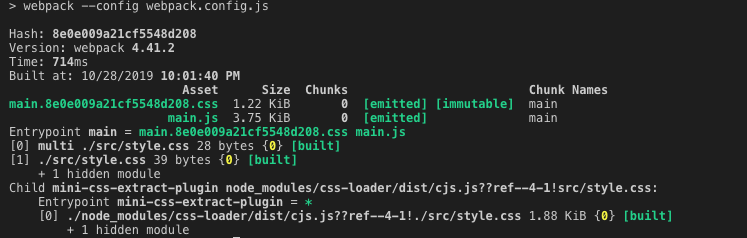
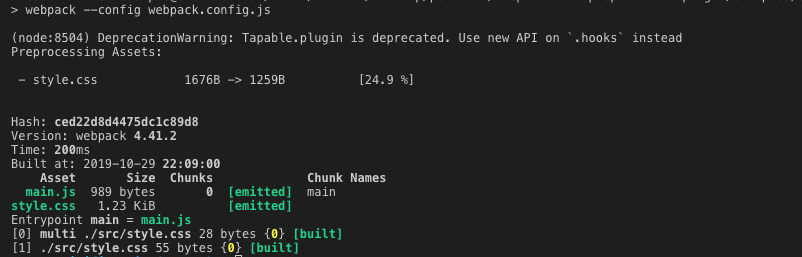
Implemented Review Suggestions

Changed region(s): [[0.0, 0.1176, 0.8929, 1.0], [0.0, 0.0, 0.3695, 0.0588], [0.4311, 0.2941, 0.5234, 0.3235]]

diff --git a/examples/css-minifier/webpack.config.js b/examples/css-minifier/webpack.config.js
@@ -1,45 +1,31 @@
-const path = require('path');
-const MiniCssExtractPlugin = require('mini-css-extract-plugin');
-const OptimizeCSSAssetsPlugin = require('optimize-css-assets-webpack-plugin');
+const WebpackFilePreprocessorPlugin = require('webpack-file-preprocessor-plugin');
+const crass = require('crass').parse;
 
 module.exports = {
   mode: 'production',
   entry: ['./src/style.css'],
-  optimization: {
-    minimizer: [new OptimizeCSSAssetsPlugin({
-      assetNameRegExp: /\.css$/,
-      cssProcessor: require('cssnano'),
-      cssProcessorPluginOptions: {
-        preset: ['default', { discardComments: { removeAll: true } }],
-      },
-      canPrint: true
-    })],
-  },
-  plugins: [
-    new MiniCssExtractPlugin({
-      filename: '[name].[hash].css',
-      chunkFilename: '[id].[hash].css',
-    }),
-  ],
   module: {
     rules: [
       {
         test: /\.css$/,
-        use: [
-          {
-            loader: MiniCssExtractPlugin.loader,
-            options: {
-              publicPath: (resourcePath, context) => {
-                return path.relative(path.dirname(resourcePath), context) + '/';
-              }
-            }
-          },
-          {
-            loader: 'css-loader',
-            options: {}
+        use: {
+          loader: 'file-loader',
+          options: {
+            name: '[name].css'
           }
-        ],
-      },
-    ],
+        }
+      }
+    ]
   },
+  plugins: [
+    new WebpackFilePreprocessorPlugin({
+      // Prints processed assets if set to true (default: false)
+      debug: true,
+      // RegExp pattern to filter assets for pre-processing.
+      pattern: /\.css$/,
+      // Do your processing in this process function.
+      process: source => crass(source.toString()).optimize().toString()
+    })
+  ]
 };
+

diff --git a/examples/css-minifier/README.md b/examples/css-minifier/README.md
@@ -1,6 +1,6 @@
-# JavaScript Minifier Example
+# CSS Minifier Example
 
-A simple example of minifying javascript files before they're emitted using this plugin.
+A simple example of minifying css files before they're emitted using this plugin.
 
 ## Trying out
 
@@ -16,7 +16,7 @@ Run build.
 $ yarn build
 ```
 
-![Building](misc/screenshot.png)
+![Building](misc/css-minifier.png)
 
 ## Configuration
 
